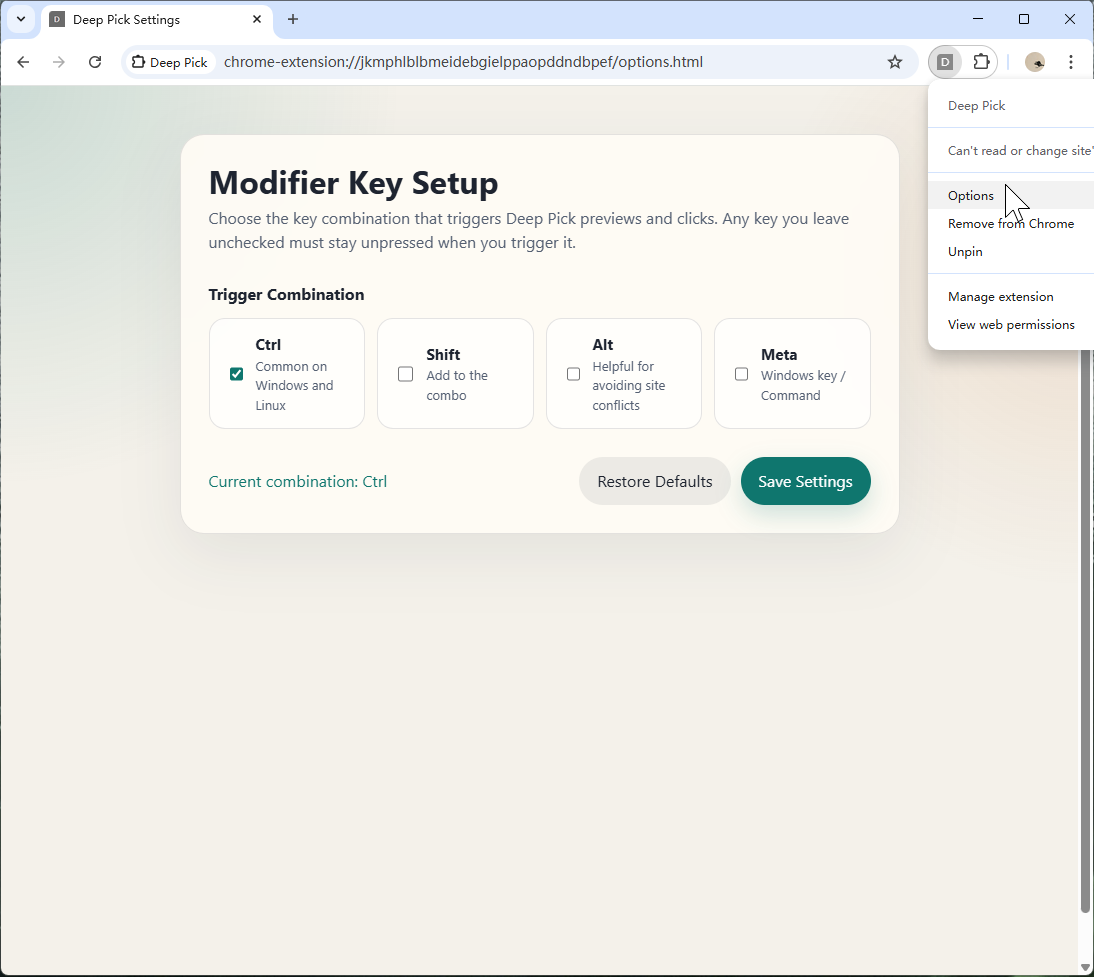
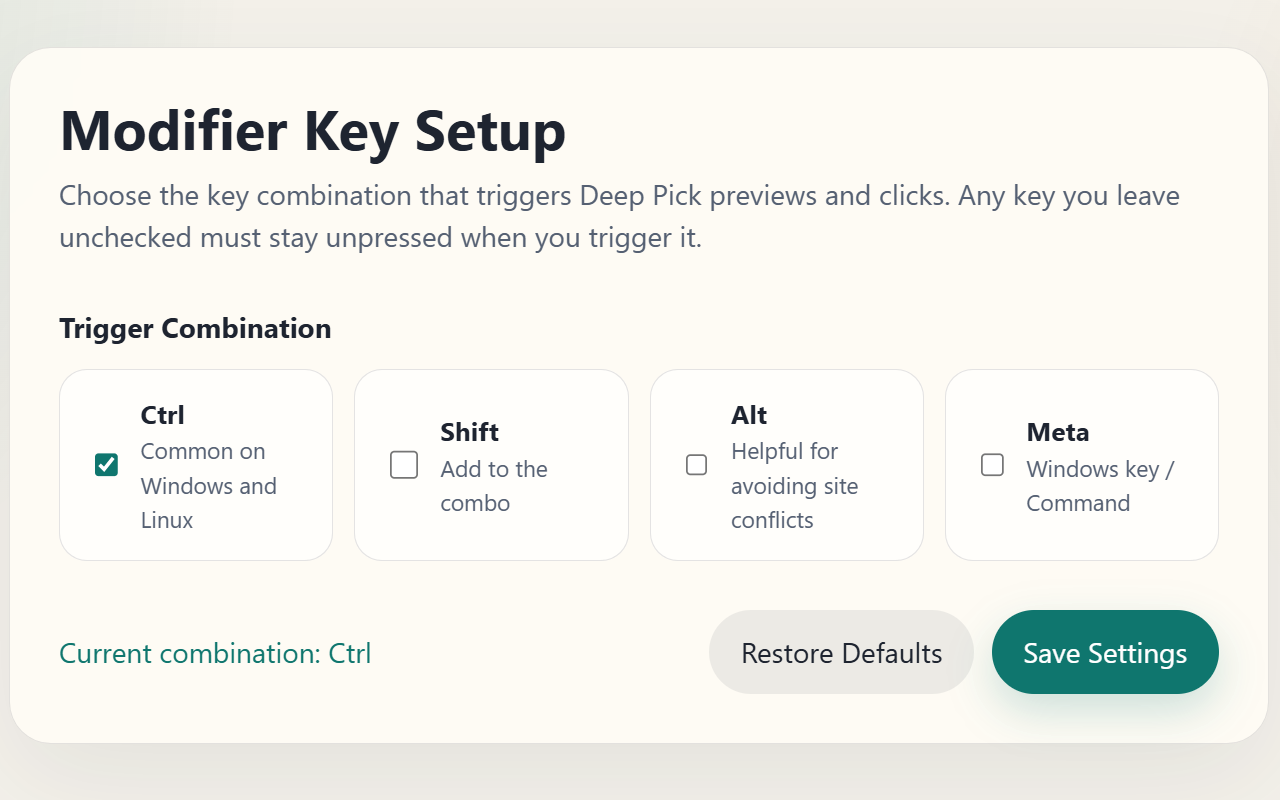
feat: 更新截图和添加新图标以改善用户界面

diff --git a/README.md b/README.md
@@ -2,19 +2,11 @@
 
 A Manifest V3 Chrome extension that lets you preview extractable images under the cursor with a configurable modifier-key shortcut, then click a thumbnail to open the system save dialog. It is intended to work on arbitrary websites (if a site is unsupported or you hit a bug, please [tell me](https://github.com/xiaomingTang/deep-pick/issues)).
 
+![main](./public/main.png)
+
 ## Screenshots
 
-### Amazon
-
-![Amazon page preview](./public/amazon.png)
-
-### Pixiv
-
-![Pixiv page preview](./public/pixiv.png)
-
-### Options
-
-![Options page](./public/options.png)
+![preview](./public/preview.png)
 
 ## Current Capabilities
 
